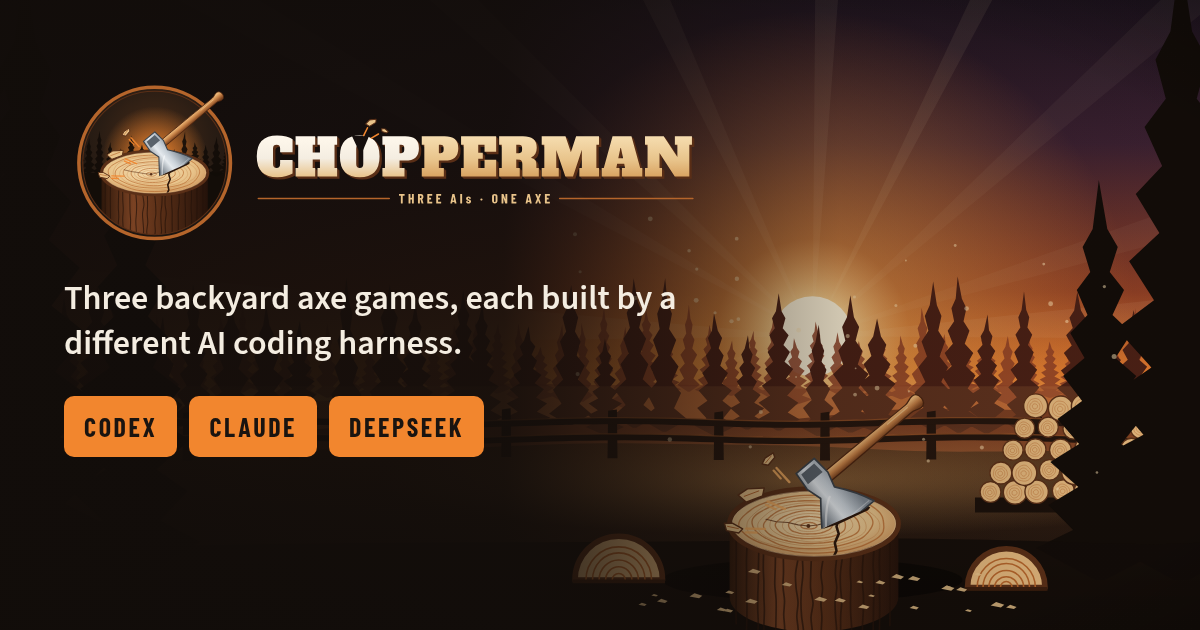
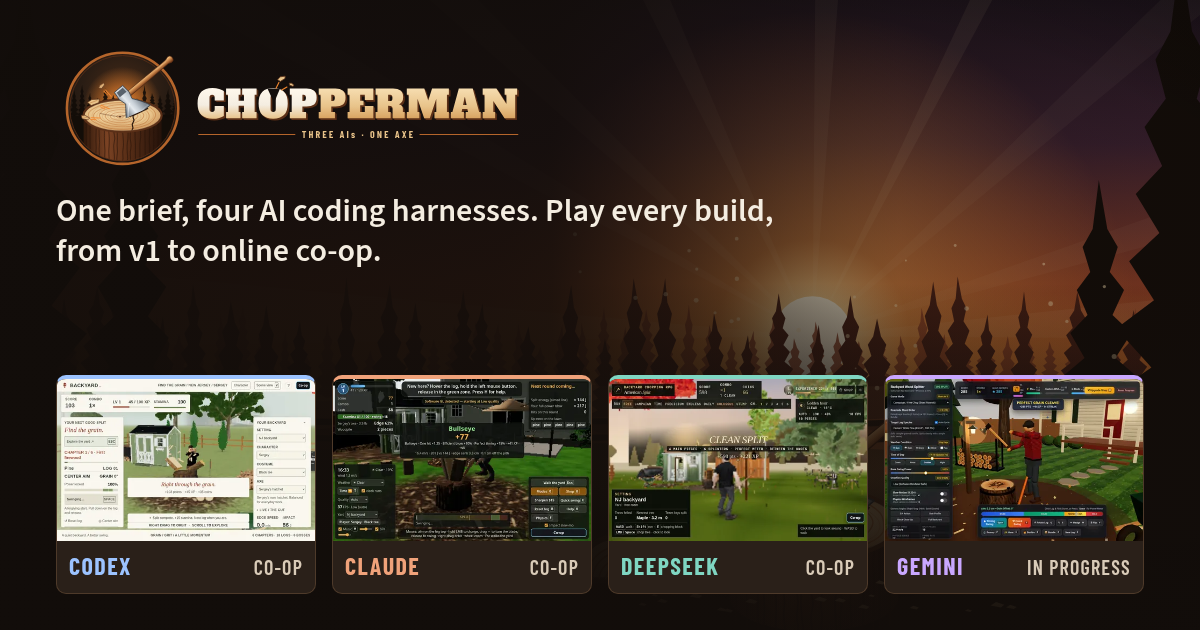
Remove stale final-*/-latest shots (not the classic finals); OG card with four harnesses + milestone strip; DESIGN.md contrast + Playwright fixes, redesign notes

diff --git a/tools/og.html b/tools/og.html
@@ -1,14 +1,23 @@
 <!doctype html><html><head><meta charset="utf-8"><link rel="stylesheet" href="../assets/site.css">
+<!-- OG card (1200x630). Render: flock /workspace/chopperman/reports/.verify.lock node tools/render.mjs tools/og.html assets/brand/og-image.png 1200 630 -->
 <style>
 body{margin:0;width:1200px;height:630px;overflow:hidden;background:#140F0C}
 .og{position:relative;width:1200px;height:630px;overflow:hidden}
 .og>img.art{position:absolute;inset:0;width:100%;height:100%;object-fit:cover;object-position:70% 100%}
-.og::before{content:"";position:absolute;inset:0;z-index:1;background:linear-gradient(90deg,rgba(18,13,10,.96) 0%,rgba(18,13,10,.9) 42%,rgba(18,13,10,.2) 70%,rgba(18,13,10,0) 100%)}
-.og .c{position:absolute;z-index:2;left:64px;top:70px;width:640px}
-.og .c img{width:640px;display:block}
-.og p{font-family:var(--f-body);font-weight:600;font-size:34px;line-height:1.3;color:#F4EDE1;margin:26px 0 30px}
-.og ul{display:flex;gap:12px;list-style:none;padding:0;margin:0}
-.og li{font-family:var(--f-label);font-weight:700;font-size:26px;letter-spacing:.1em;text-transform:uppercase;background:#F2862E;color:#1A1410;padding:10px 20px;border-radius:10px}
+.og::before{content:"";position:absolute;inset:0;z-index:1;background:linear-gradient(90deg,rgba(18,13,10,.96) 0%,rgba(18,13,10,.9) 46%,rgba(18,13,10,.35) 75%,rgba(18,13,10,.2) 100%),linear-gradient(0deg,rgba(18,13,10,.95) 0,rgba(18,13,10,.6) 38%,rgba(18,13,10,0) 55%)}
+.og .c{position:absolute;z-index:2;left:56px;top:40px;width:760px}
+.og .c>img{width:470px;display:block}
+.og p{font-family:var(--f-body);font-weight:600;font-size:32px;line-height:1.25;color:#F4EDE1;margin:18px 0 0}
+.strip{position:absolute;z-index:2;left:56px;right:56px;bottom:36px;display:grid;grid-template-columns:repeat(4,1fr);gap:16px}
+.strip figure{margin:0;background:#2A2019;border:1px solid #4E3A2A;border-top:4px solid var(--hc);border-radius:10px;overflow:hidden}
+.strip img{display:block;width:100%;aspect-ratio:16/10;object-fit:cover}
+.strip figcaption{font-family:var(--f-label);font-weight:700;font-size:24px;letter-spacing:.06em;text-transform:uppercase;color:var(--hc);padding:6px 12px 8px;display:flex;justify-content:space-between;align-items:baseline}
+.strip figcaption span{font-size:20px;color:#D9CBB8}
 </style></head><body><div class="og"><img class="art" src="../assets/brand/hero.svg" alt="">
-<div class="c"><img src="../assets/brand/logo.svg" alt="Chopperman"><p>Three backyard axe games, each built by a different AI coding harness.</p>
-<ul><li>Codex</li><li>Claude</li><li>DeepSeek</li></ul></div></div></body></html>
+<div class="c"><img src="../assets/brand/logo.svg" alt="Chopperman"><p>One brief, four AI coding harnesses. Play every build, from v1 to online co-op.</p></div>
+<div class="strip">
+<figure style="--hc:var(--h-codex)"><img src="../assets/milestones/codex/coop-480.webp" alt=""><figcaption>Codex<span>co-op</span></figcaption></figure>
+<figure style="--hc:var(--h-claude)"><img src="../assets/milestones/claude/coop-480.webp" alt=""><figcaption>Claude<span>co-op</span></figcaption></figure>
+<figure style="--hc:var(--h-deepseek)"><img src="../assets/milestones/deepseek/coop-480.webp" alt=""><figcaption>DeepSeek<span>co-op</span></figcaption></figure>
+<figure style="--hc:var(--h-gemini)"><img src="../assets/milestones/gemini/classic-480.webp" alt=""><figcaption>Gemini<span>in progress</span></figcaption></figure>
+</div></div></body></html>

diff --git a/DESIGN.md b/DESIGN.md
@@ -27,7 +27,7 @@ The visual language comes from the earlier **Grain & Gravity** channel kit (same
 | Data | Blueprint Navy / Cyan | `#0E2A47` / `#5CC8F2` | snapshot call-out, hashes, focus ring |
 | Status | Good / Warn | `#8FD694` / `#FFC56B` | pros, cheapest cost; "not re-reviewed" flags |
 
-Contrast for key pairs (WCAG): Chalk on Bark is about 16:1, Sapwood on Bark about 11:1, Ember on Bark about 7.4:1, Bark on Ember (button text) about 7.4:1, and Cyan on Bark about 9:1.
+Contrast for key pairs (WCAG): Chalk on Bark is about 16:1, Sapwood on Bark about 11:1, Ember on Bark 7.14:1, Bark on Ember (button text) 7.14:1, and Cyan on Bark about 9:1.
 
 ## Type
 
@@ -36,7 +36,7 @@ Fonts are self-hosted from `assets/fonts/web/` as WOFF files subset to Latin wit
 | Role | Family | Size |
 |---|---|---|
 | Display (h2, card and review titles, wordmark) | Alfa Slab One | h2 `clamp(32px … 52px)`, h3 24–40px |
-| Labels, kickers, buttons (caps, tracked) | Barlow Condensed 600/700 | 17–26px (score-ring words 15px) |
+| Labels, kickers, buttons (caps, tracked) | Barlow Condensed 600/700 | 16–26px (score-ring words raised to 16px in `dd17e2c`) |
 | Body | Source Sans 3 (variable, weight 400–600) | **18px**, line-height 1.6; ledes 20px |
 | Numbers, hashes | IBM Plex Mono 500 | 16–22px (never below 16px inline) |
 
@@ -78,7 +78,7 @@ The `assets/brand/` total is about 1.09 MB, under the 1.5 MB budget. Most of tha
 - `tools/render.mjs` renders SVG or HTML to PNG with headless Chrome.
 - `tools/og.html` and `tools/poster.html` are the templates for the social card and the video poster.
 - `tools/verify.mjs` runs the QA and audit below.
-- The Playwright path given in the brief (`/workspace/chopperman/driver/node_modules/playwright-core`) doesn't exist on this box. The scripts use `/var/tmp/sand-playwright-runtime/…/playwright-core` instead; you can override it with the `PW_CORE` environment variable.
+- Playwright: the scripts use `/workspace/chopperman/driver/node_modules/playwright-core` (it exists; an earlier note here said it didn't). Override it with the `PW_CORE` environment variable.
 
 Rebuild everything:
 ```bash
@@ -164,4 +164,22 @@ Screenshots: `/workspace/recordings/site/site-v2-desktop-full.png` (1280) and `s
 | Broken images / missing alt | 0 / 0. Key art and screenshots have descriptive alt text. |
 | Reduced motion | The hero chip drift, smooth scroll and button lift are still gated on `prefers-reduced-motion` |
 
-`tools/verify.mjs` now takes `VIEWS=desktop,mobile` and `SHOT_PREFIX`. It looks for playwright-core at `/workspace/chopperman/driver/...` first and falls back to the runtime path, since the driver path isn't present on this box.
+`tools/verify.mjs` now takes `VIEWS=desktop,mobile` and `SHOT_PREFIX`. It looks for playwright-core at `/workspace/chopperman/driver/...` first (present) and falls back to the runtime path.
+
+
+## Redesign: four pages (2026-10-24)
+
+Implements `reports/site-design/PROPOSAL.md` (P0–P2). The one long page became four static pages with shared chrome:
+
+| URL | What | Generated parts |
+|---|---|---|
+| `/` | top bar, What’s-new ribbon, condensed hero, **Play picker** (4 cards), co-op section + how-to, Two backyards, milestones teaser, results-at-a-glance tiles, intro video | `CHROME-*` (tools/build_chrome.py), `COOP` (build_coop.py), `GEMINI` card (build_blog.py), `MILESTONES-TEASER` (build_milestones.py) |
+| `/milestones/` | compare-harnesses grid ⇄ one-harness timeline, iteration filmstrips, `<dialog>` lightbox with a compare slider | `MILESTONES`, `GEMINI-STATUS` |
+| `/results/` | the one “what was reviewed” flag, scoreboard, Round Two review, Round 1, Assets v2 measurements | `GEMINI-SCORES-NOTE` |
+| `/cost/` | the bill, Gemini est. block, the build log (`#log`, open) | `BLOG`, `GEMINI-COST-NOTE` |
+
+- **Nav:** 5 items (Play · Milestones · Results · Cost & log · About), sticky; `aria-current="page"` per page, scroll-spy (`aria-current="location"`) on Home; underline + colour, not colour alone. ≤720px: one 56px row with a labelled Menu button and a full-height sheet (focus trap, Esc, body scroll lock); the bar hides on scroll down and returns on scroll up (not under reduced motion).
+- **Old links:** `#v2`, `#games`, `#classic` are anchors inside `#play`; `#gemini` is the Gemini card; `#scores`, `#reviews`, `#round1`, `#review-*`, `#cost`, `#behind-the-build`, `#sb-gemini` are redirected by `site.js` (`location.replace`).
+- **New tokens:** `--dim #B8A894` (7.87:1), harness colours `--h-codex #9CC3FF`, `--h-claude #F0A27A`, `--h-deepseek #7FD6C2`, `--h-gemini #C9A7FF` (all ≥ 8.8:1 on Bark), always next to the harness name. 8-pt spacing scale `--s1…--s9`.
+- **Fonts:** WOFF2 first (≈20% smaller), WOFF fallback.
+- **Checks:** `tools/check_pages.mjs` (every page × 1280/390/768/1920: errors, failed requests, text ≥16px, contrast ≥4.5:1, 44px targets, overflow, links + anchors, menu, ribbon, router, gallery, lightbox).
